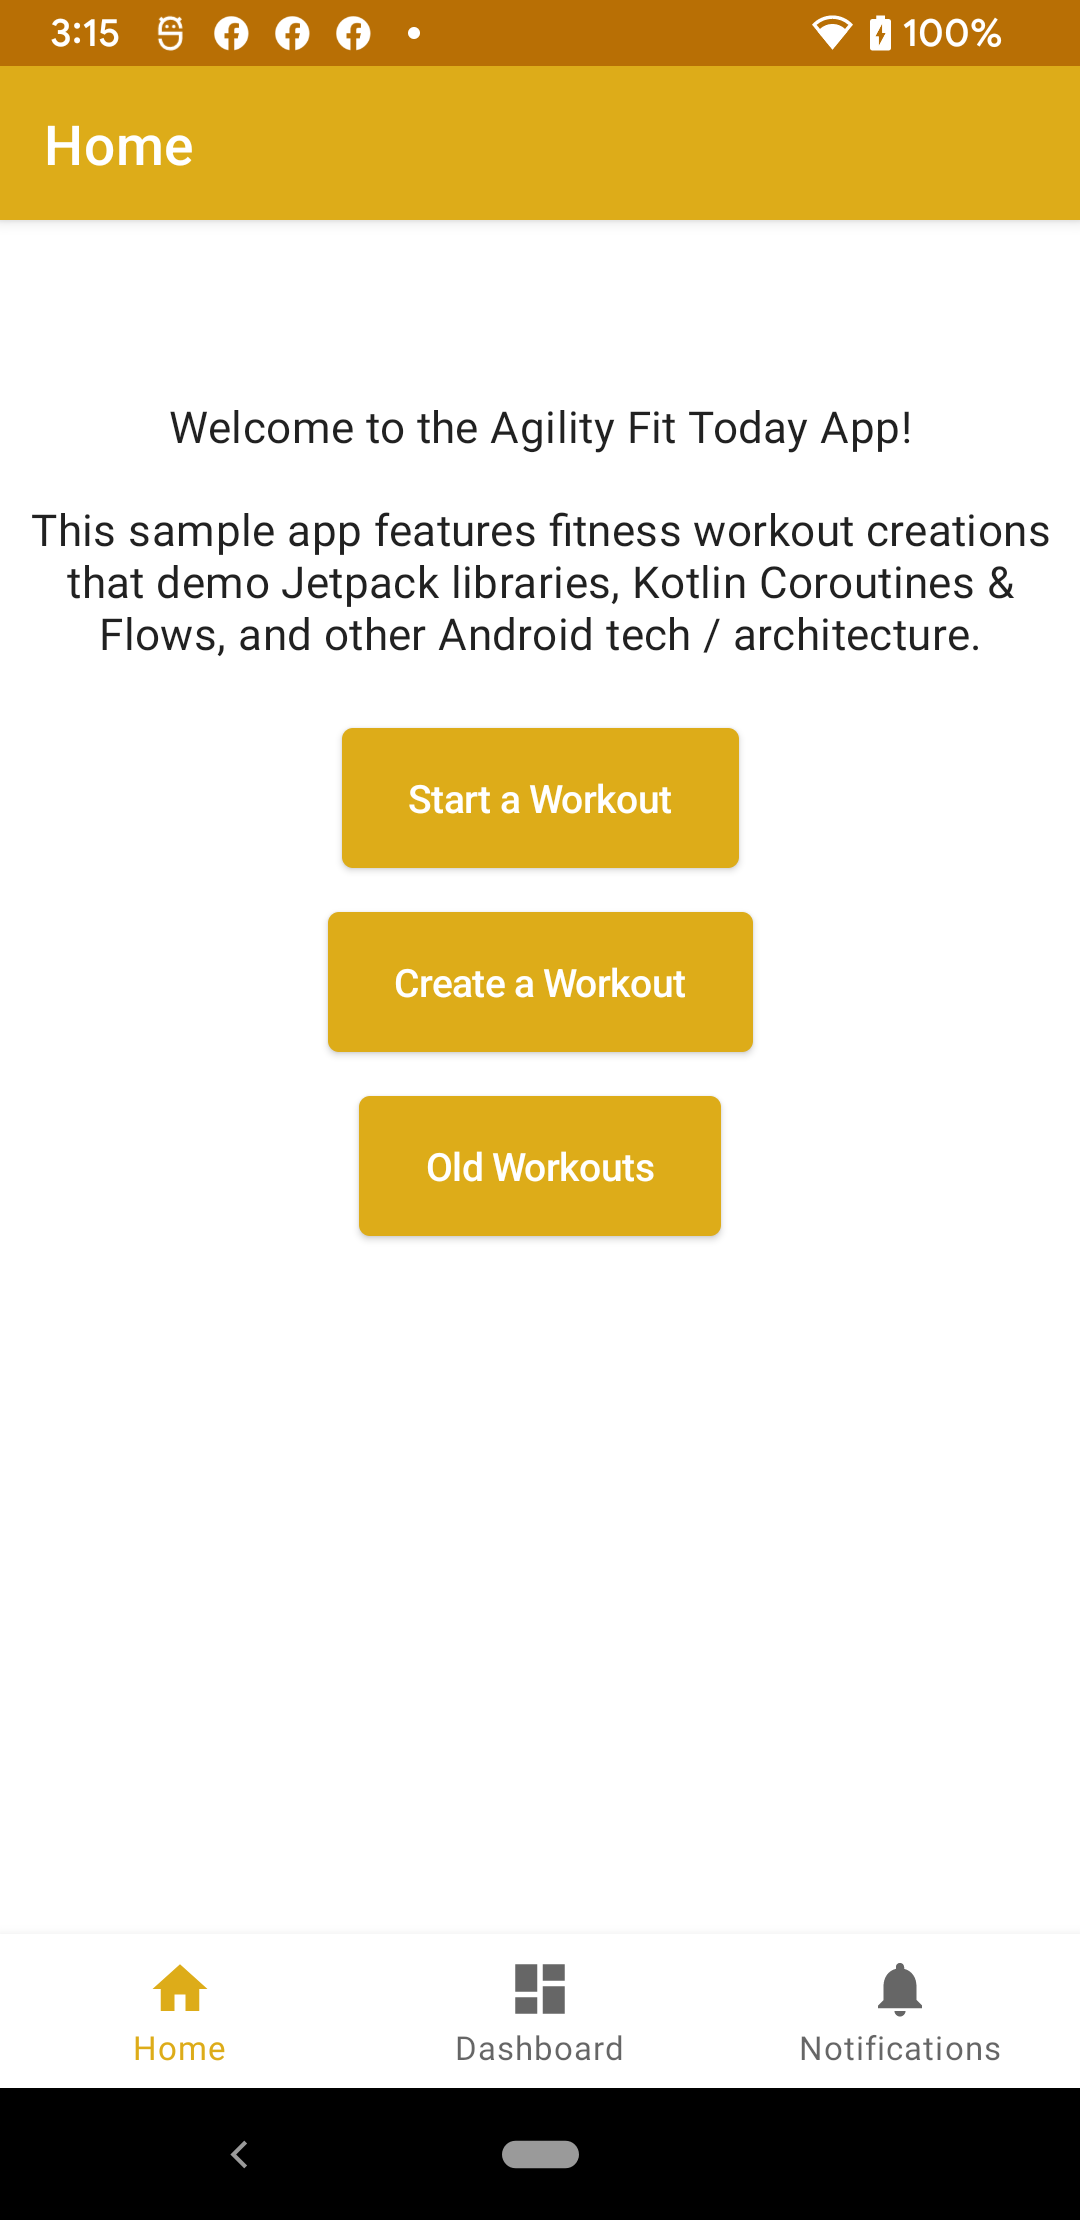
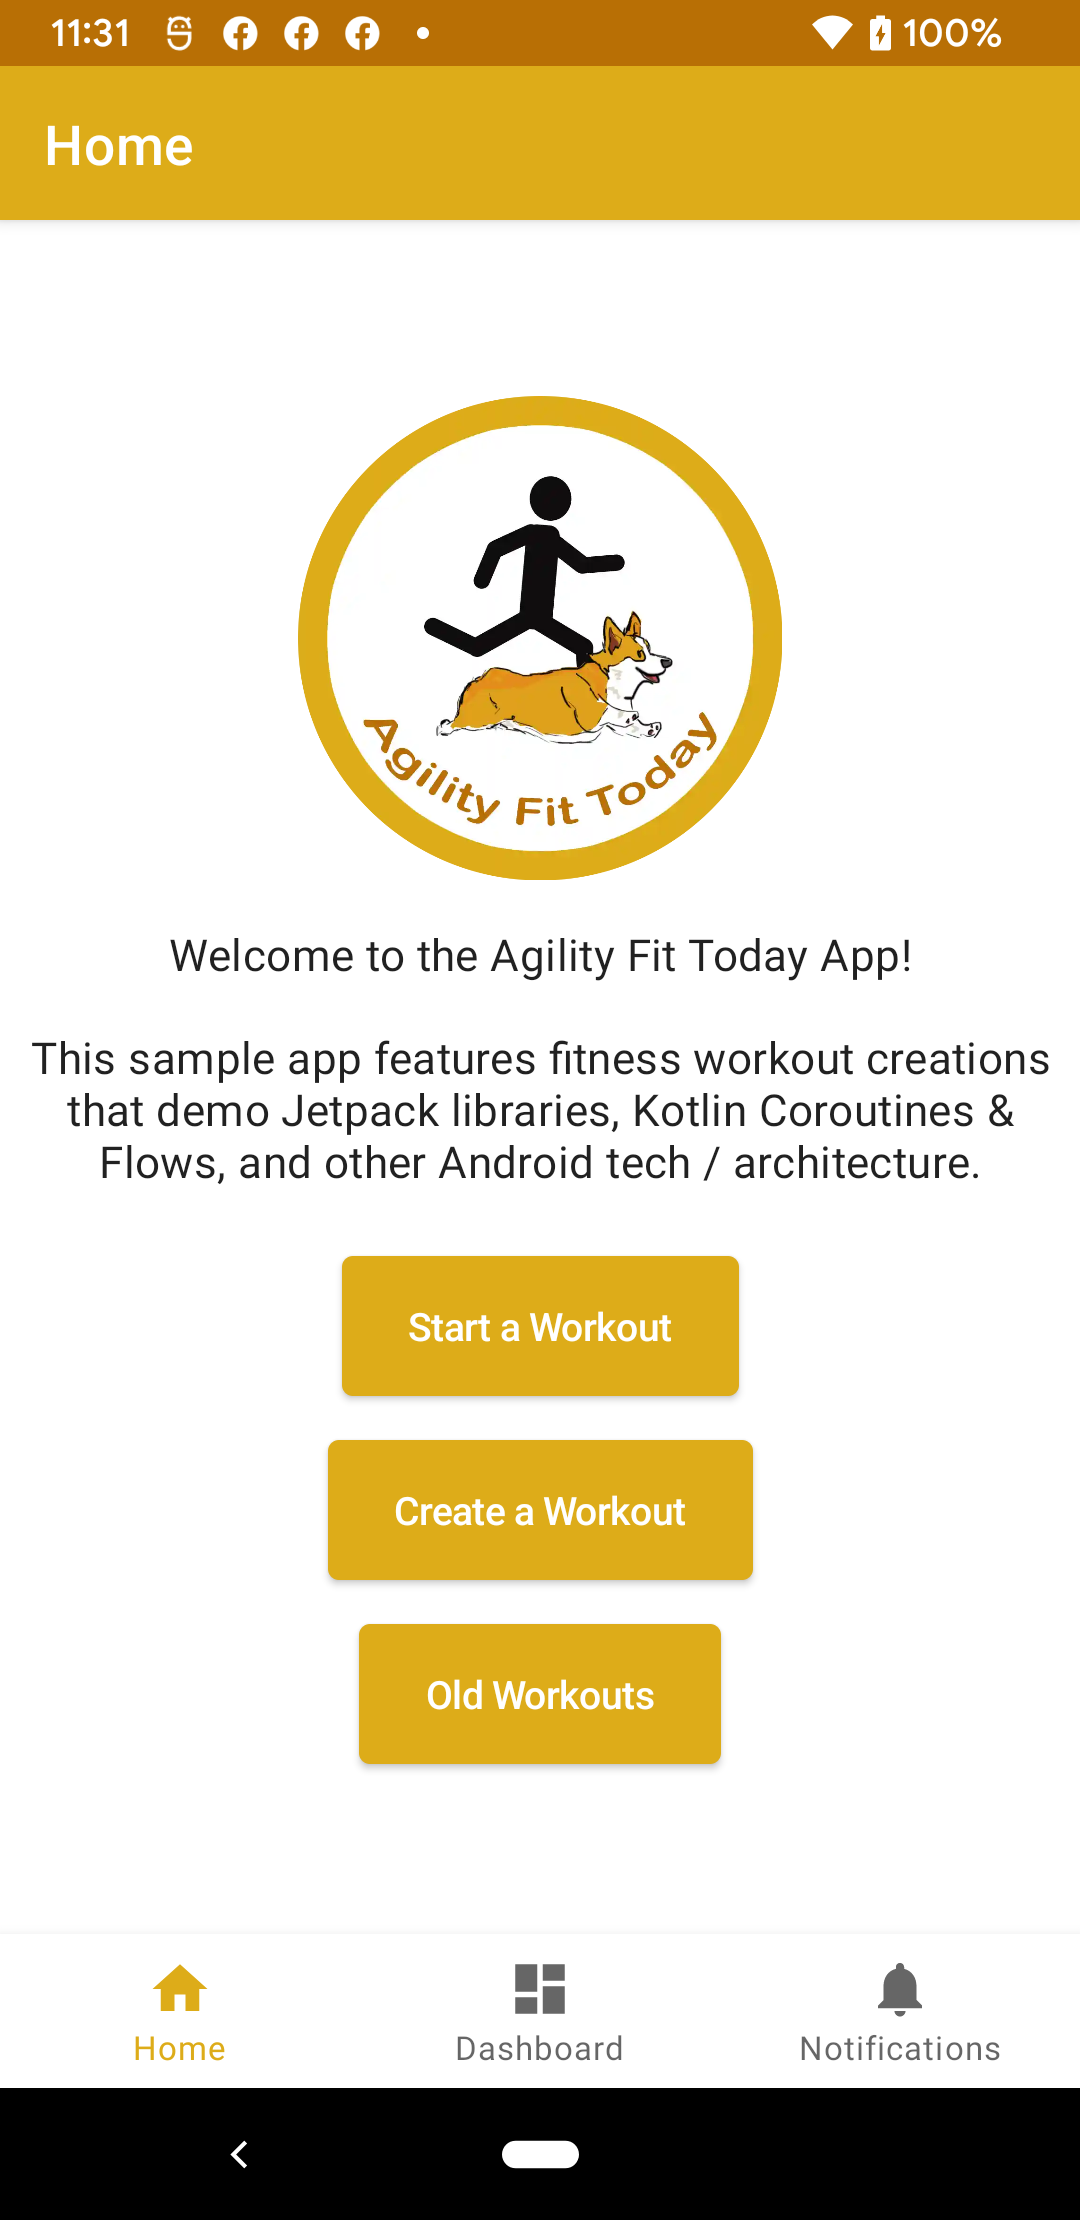
Update README with new screenshots

diff --git a/android/README.md b/android/README.md
@@ -1,7 +1,7 @@
 # Android AgilityFitTodayApp
 Sample App created to practice with different Android Tech
 
-<img src="./Screenshots/select_workout.png" width="200"/> <img src="./Screenshots/start_workout.png" width="200"/> <img src="./Screenshots/start_workout_long.png" width="200"/> <img src="./Screenshots/home.png" width="200"/> <img src="./Screenshots/dashboard.png" width="200"/>
+<img src="./Screenshots/home.png" width="200"/> <img src="./Screenshots/select_workout.png" width="200"/> <img src="./Screenshots/start_workout.png" width="200"/> <img src="./Screenshots/start_workout_long.png" width="200"/> <img src="./Screenshots/dashboard.png" width="200"/> <img src="./Screenshots/app_icon.png" width="200"/>
 
 ## Proposed Features
 
